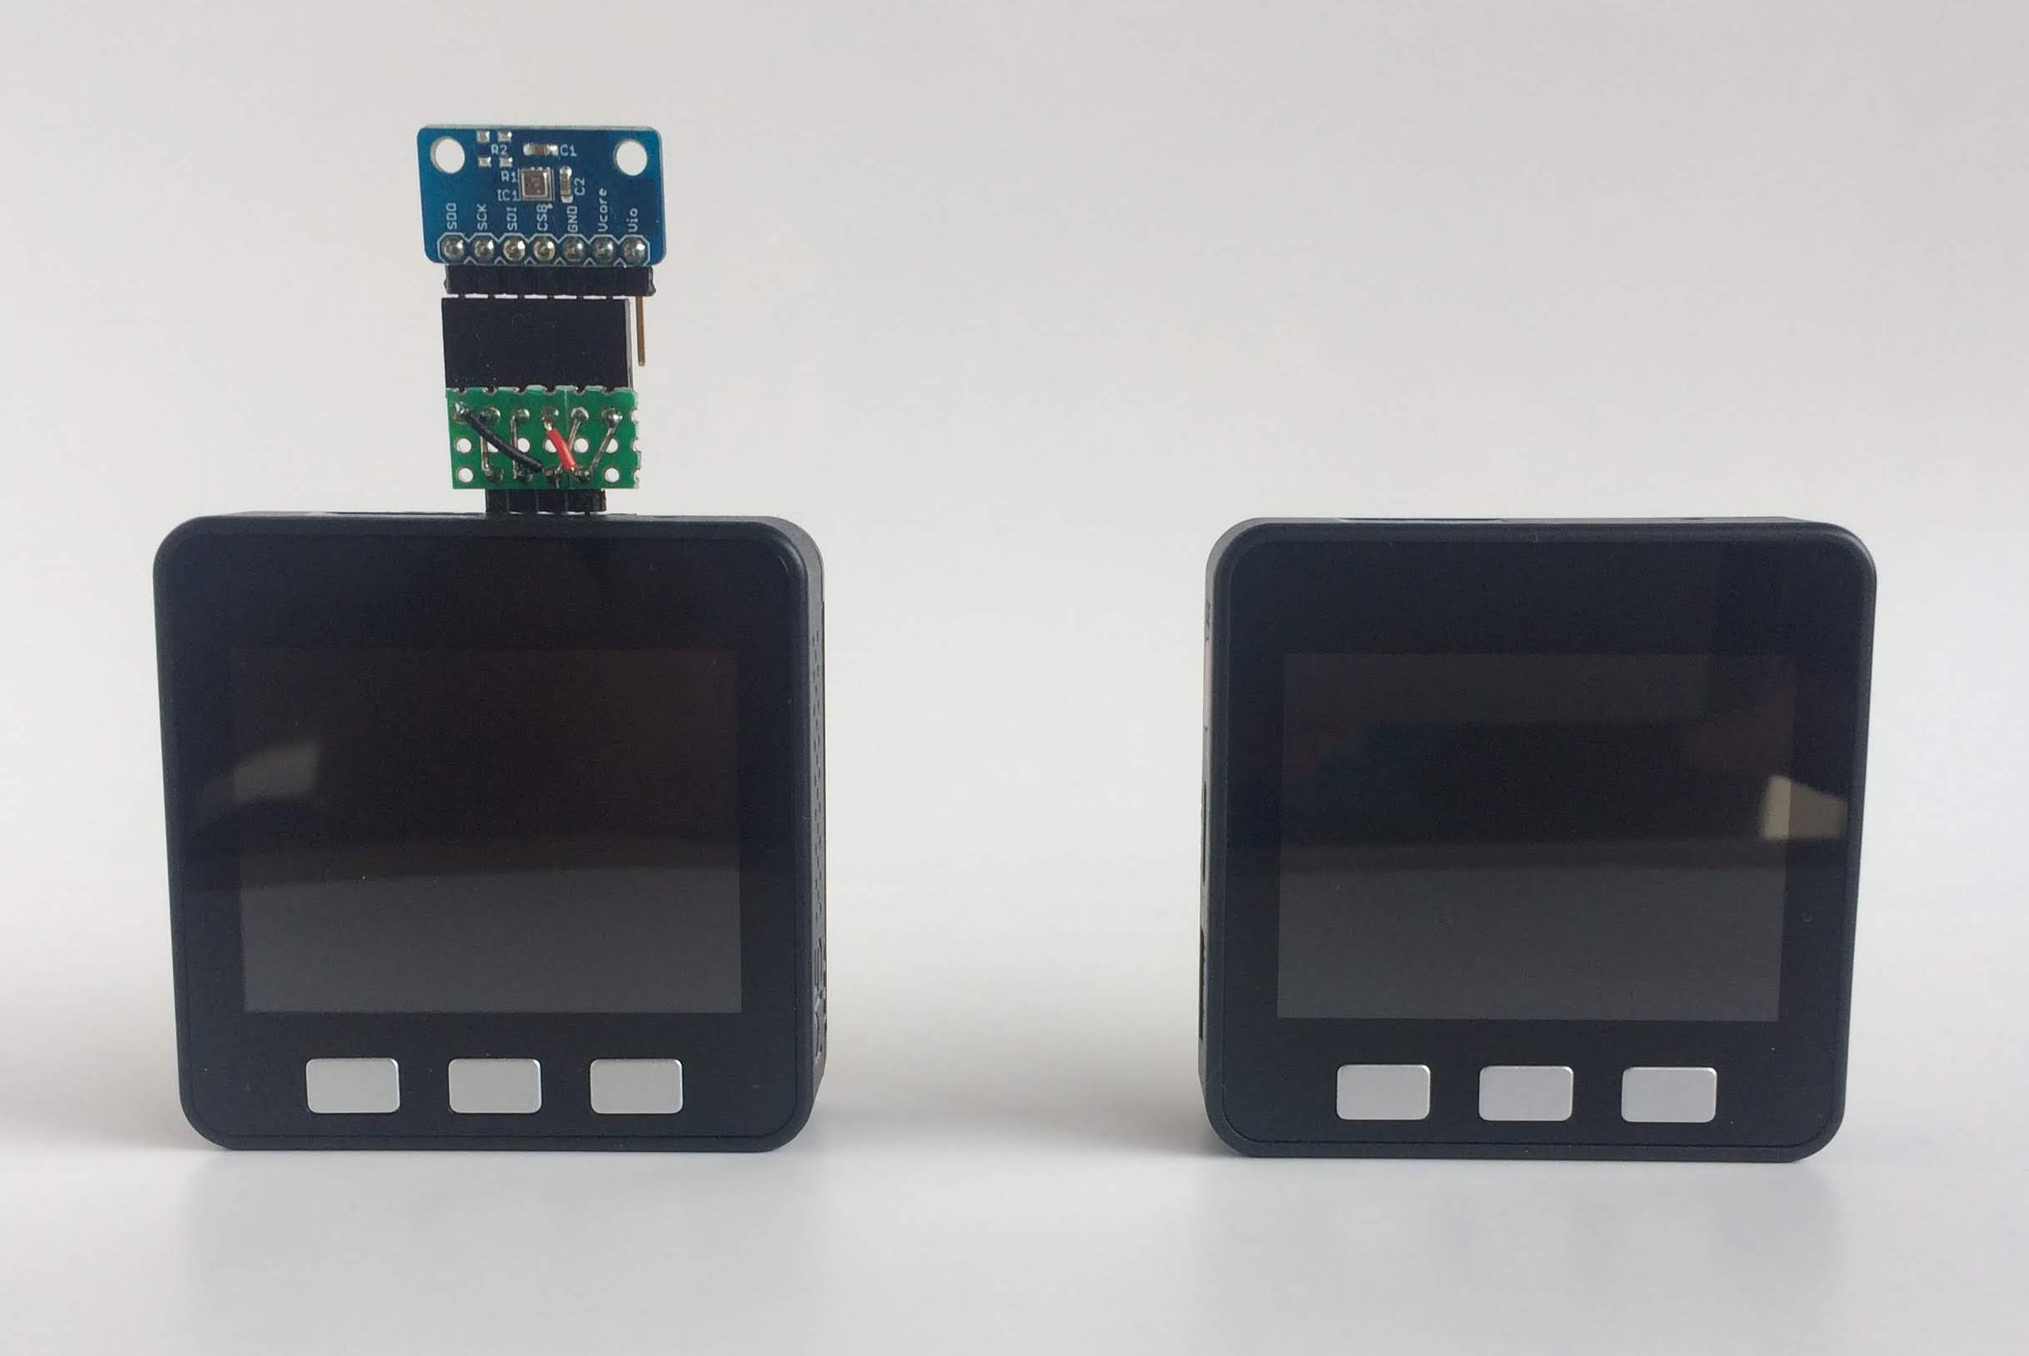
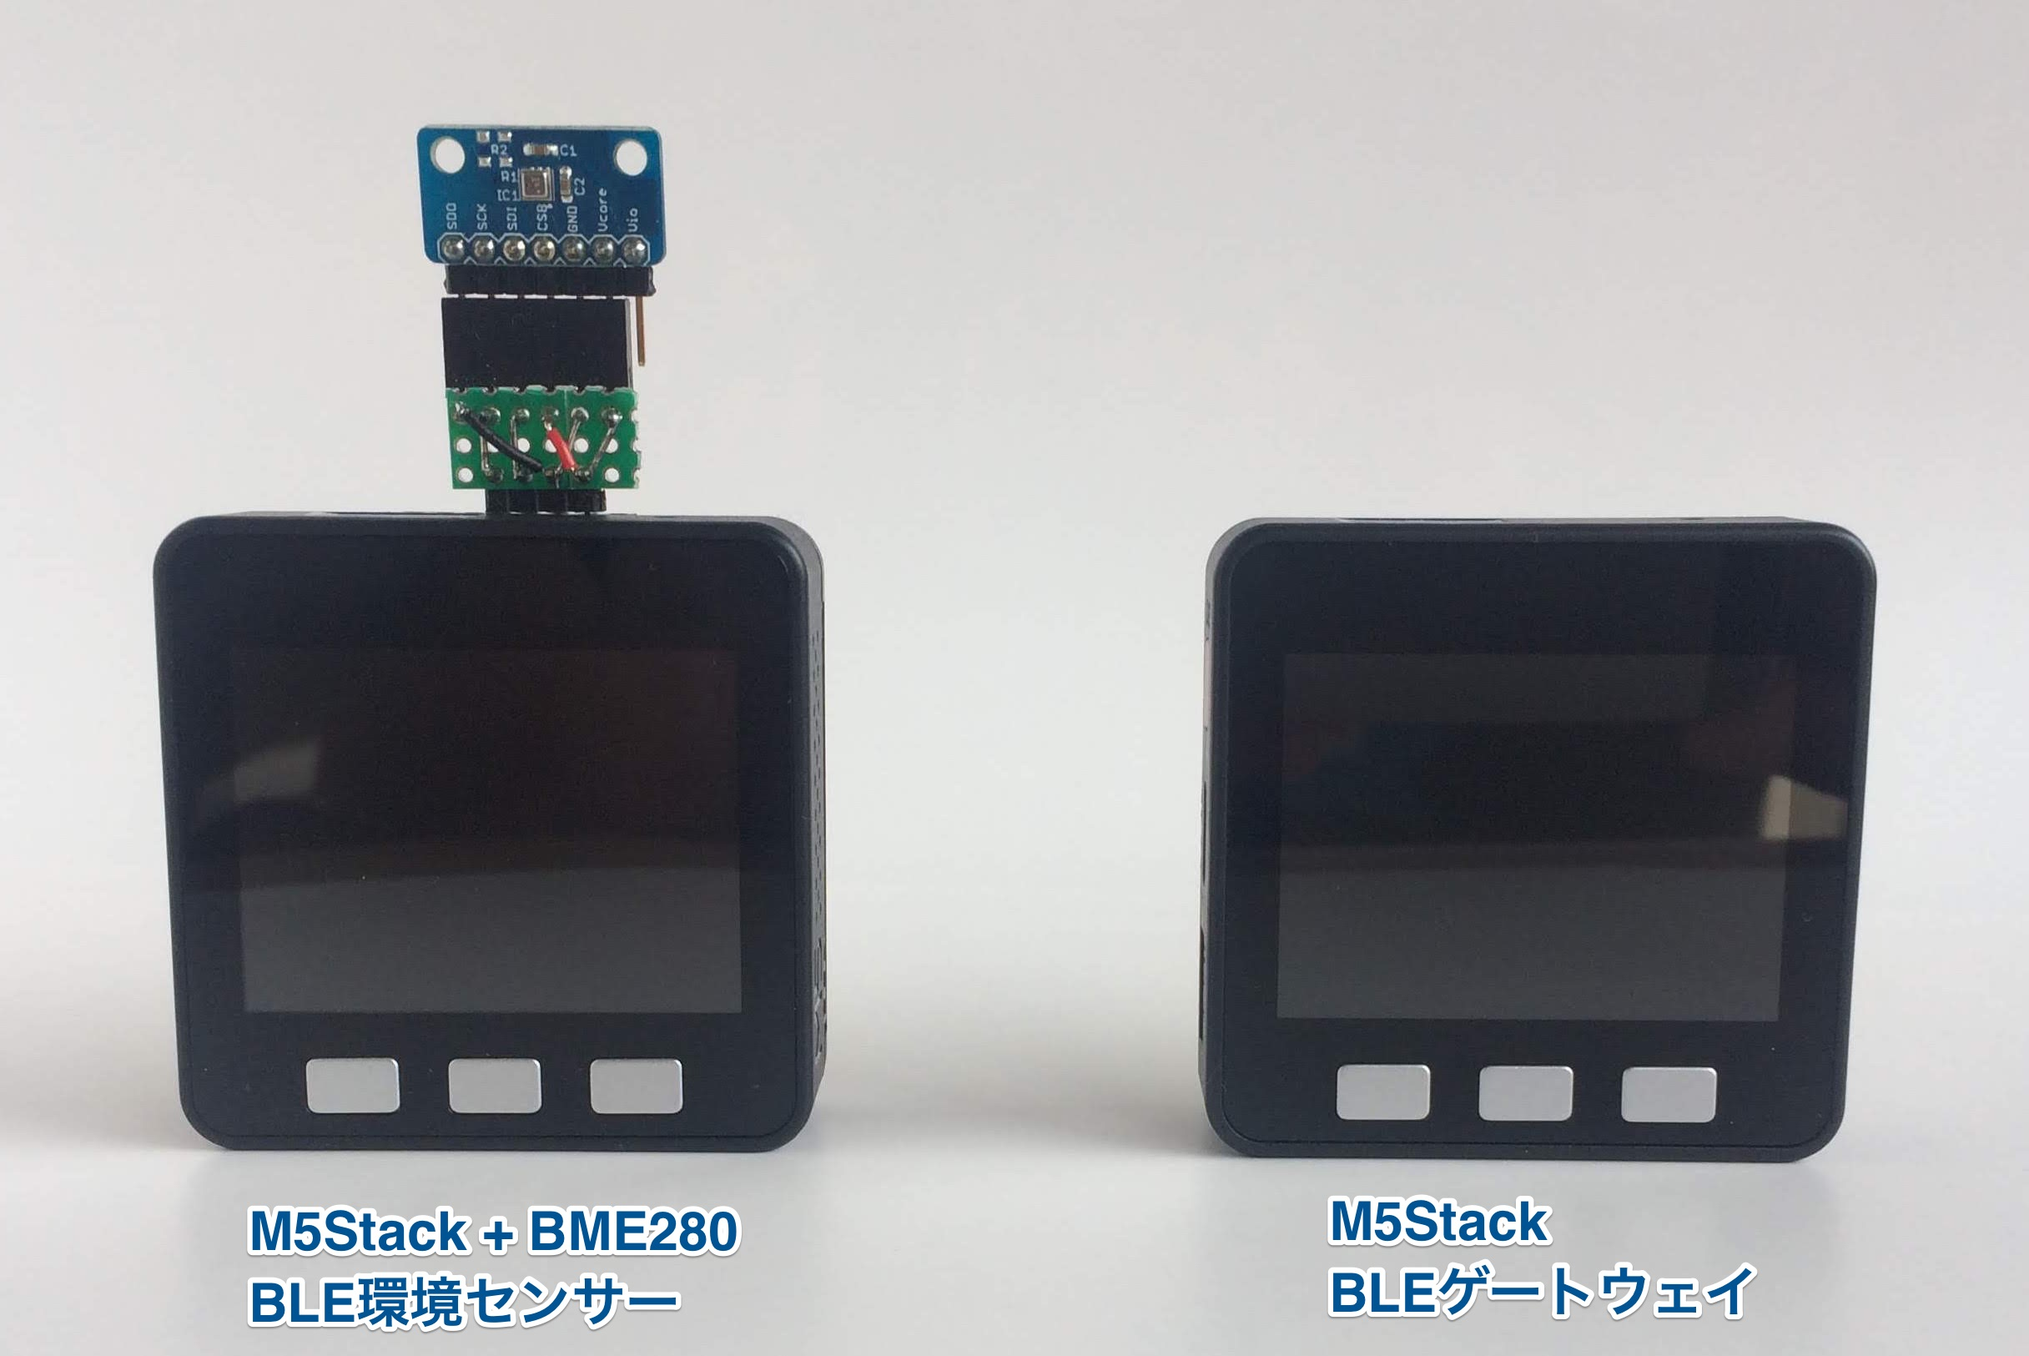
October contents

Changed region(s): [[0.0938, 0.8923, 0.375, 0.9846], [0.6562, 0.8615, 0.875, 0.9846]]

diff --git a/letsiot/blegw_rpi/index.html b/letsiot/blegw_rpi/index.html
@@ -90,9 +90,14 @@
             </div>
 
             <div class="col-sm-9 col-lg-8">
+                <p>Bluetooth Low Energy (BLE) は消費電力の低い通信方式ですが、直接インターネットにはデータを送れません。
+                    BLEで送信したセンサデータをクラウドに送るためには、
+                    BLEで送信されたデータを受信してTCP/IPでクラウドに送るBLEゲートウェイが必要です。</p>
+
                 <p>「<a href="http://pages.switch-science.com/letsiot/bleperiph/index.html">M5StackでBLE環境センサ端末を作る</a>」ではBluetooth Low Energy (BLE) でデータを発信するセンサ端末を作りました。
-                    今回はこの端末からデータを受けて、クラウドにデータを送るゲートウェイを作ります。</p>
-                <p>ESP32を使ったゲートウェイは「<a href="http://pages.switch-science.com/letsiot/blegw_esp32/index.html">BLE環境センサ・ゲートウェイ(ESP32編)</a>」をご覧ください。</p>
+                    今回はこの端末からデータを受けて、クラウドにデータを送るBLEゲートウェイを作ります。</p>
+
+                <p><img src="./images/photo1.jpg" width="80%" class="img-responsive center-block"></p>
 
                 <h2 id="structure">全体の構成</h2>
 
@@ -102,7 +107,8 @@
                     M5Stackに搭載されているものと同じマイコンESP32を搭載するESPr Developer 32でも動作します。
                     センサ端末の開発は「<a href="http://pages.switch-science.com/letsiot/bleperiph/index.html">M5StackでBLE環境センサ端末を作る</a>」をご覧ください。</p>
 
-                <p>ゲートウェイはBLE通信ができて、インターネットにも接続できるものが必要です。今回はRaspberry Piを使います。</p>
+                <p>BLEゲートウェイはBLE通信ができて、インターネットにも接続できるものが必要です。今回はRaspberry Piを使います。</p>
+                <p>ESP32を使ったBLEゲートウェイは「<a href="http://pages.switch-science.com/letsiot/blegw_esp32/index.html">BLE環境センサ・ゲートウェイ(ESP32編)</a>」をご覧ください。</p>
 
                 <h2 id="blemode">BLEデバイスの動作</h2>
 
@@ -111,7 +117,7 @@
                 <p><img src="./images/blemode.jpg" width="80%" class="img-responsive center-block"></p>
 
                 <p>コネクトモードでは、センサ端末などのペリフェラルが自らの存在を発信(アドバタイズ)します。
-                    セントラルと呼ばれるゲートウェイはアドバタイジングパケットをスキャンし、自分が必要とするペリフェラルを見つけ、
+                    セントラルと呼ばれるBLEゲートウェイはアドバタイジングパケットをスキャンし、自分が必要とするペリフェラルを見つけ、
                     ペリフェラルに接続(コネクト)してデータの送受信をおこないます。</p>
 
                 <p>ブロードキャストモードでは、ペリフェラルがセンサデータなどをアドバタイジングパケットに載せて送り、セントラルがそれを受信します。</p>
@@ -123,14 +129,27 @@
                     しかもブロードキャストモードは、ペリフェラルがデータを送りたいときだけアドバタイズし、あとはDeep Sleepすることができるので、
                     ペリフェラル側の電力消費を低く抑えられます。</p>
 
-                <p>センサ端末はブロードキャストモードで動作するものを開発したので、ゲートウェイもブロードキャストモードのものを作ります。</p>
+                <p>センサ端末はブロードキャストモードで動作するものを開発したので、BLEゲートウェイもブロードキャストモードのものを作ります。</p>
 
                 <h2 id="hardware">ハードウェア、OS、Python</h2>
 
-                <p>ゲートウェイのハードウェアは「<a href="https://www.switch-science.com/catalog/3646/">Raspberry Pi Zero WH</a>」を使いました。
+                <p>BLEゲートウェイのハードウェアは「<a href="https://www.switch-science.com/catalog/3646/">Raspberry Pi Zero WH</a>」を使いました。
                     65mm x 30mm と非常に小さいサイズですが、Wi-FiとBLE通信機能があり、RAMも512MBあります。BLEゲートウェイを動かすには十分な性能です。</p>
 
-                <p><img src="./images/photo1.jpg" width="80%" class="img-responsive center-block"></p>
+                <p>今回使用した部品をまとめました。</p>
+                <div>
+                    <table class="table table-bordered" style="font-size:0.9em; width: 70%;">
+                        <thead>
+                            <tr><th>部品</th><th>個数</th></tr>
+                        </thead>
+                        <tbody>
+                            <tr><td><a href="https://www.switch-science.com/catalog/3646/">Raspberry Pi Zero WH</a></td><td>1個</td></tr>
+                            <tr><td><a href="https://www.switch-science.com/catalog/3240/">Adafruit Raspberry Pi Zero用ケース</a></td><td>1個</td></tr>
+                            <tr><td><a href="https://www.switch-science.com/catalog/2109/">USB ACアダプター 5V/2.0A</a></td><td>1個</td></tr>
+                            <tr><td><a href="https://www.switch-science.com/catalog/1035/">USB2.0ケーブル(A-microBタイプ)50cm</a></td><td>1個</td></tr>
+                        </tbody>
+                    </table>
+                </div>
 
                 <p>OSは「Raspbian GNU/Linux 9.4 (stretch)」を使いました。
                     OSのセットアップは「<a href="https://qiita.com/hishi/items/8bdfd9d72fa8fe2e7573" target="_blank">Raspberry Pi Zero(W)のセットアップ</a>」などをご覧ください。
@@ -138,19 +157,21 @@
                 <p>Pythonはpyenvを導入し、Pythonは3.6.5をインストールしました。
                     pyenvとPythonのインストールは「<a href="https://qiita.com/h-sakano/items/cb8df027b81acd78bd77" target="_blank">RaspberryPiにpyenvを導入</a>」などをご覧ください。
 
-                <p>Raspberry Pi Zero WHへのPythonのインストールは非常に時間がかかります。ネットワーク環境にもよりますが、私の環境では1時間6分かかりました。
+                <p>Raspberry Pi Zero WHへのPythonのインストールは非常に時間がかかります。ネットワーク環境にもよりますが、著者の環境では1時間6分かかりました。
                     途中、不安になりますが、気長にお待ちください。</p>
 
                 <h2 id="library">BLEライブラリ</h2>
 
                 <p>PythonのBLEライブラリにはいくつかのものがあります。
                     「<a href="http://masato-ka.hatenablog.com/entry/2017/09/10/153555" target="_blank">PythonからBLEを制御するライブラリの調査</a>」に比較レポートがあります。
-                    Python3系で使えて<a href="http://ianharvey.github.io/bluepy-doc/" target="_blank">ドキュメント</a>がしっかりしている
+                    今回はこの中でPython3系で使えて<a href="http://ianharvey.github.io/bluepy-doc/" target="_blank">ドキュメント</a>がしっかりしている
                     「<a href="https://github.com/IanHarvey/bluepy" target="_blank">bluepy</a>」を使いました。
+                    ライブラリを選択する上で、ドキュメントの充実は重要です。
+                    APIや関数インタフェースの仕様、使い方、事例などが豊富にあるとプログラミングもとても楽になります。</p>
 
                 <h3>bluepyとAmbientライブラリのインストール</h3>
 
-                <p>Raspberry Piへのbluepyのインストールは次のようにおこないます。</p>
+                <p>Raspberry Piへのbluepyのインストールは次のようにおこないます。「pi$」と書いてある部分はRaspberry Piでのコマンド実行です。</p>
 
 <p><pre>
 pi$ sudo apt-get install libglib2.0-dev
@@ -180,7 +201,7 @@ pi$ pip install git+https://github.com/AmbientDataInc/ambient-python-lib.git
 
                 <p><img src="./images/ADVdata.jpg" width="80%" class="img-responsive center-block"></p>
 
-                <p>ブロードキャストモードのゲートウェイプログラムは比較的単純です。センサ端末が送るアドバタイジングデータをスキャンして見つけ、
+                <p>ブロードキャストモードのBLEゲートウェイプログラムは比較的単純です。センサ端末が送るアドバタイジングデータをスキャンして見つけ、
                     アドバタイジングデータからセンサ値を取り出し、Ambientに送ります。</p>
 
                 <p>bluepyでは、Scannerクラスのインスタンスを作り、scan()メソッドを呼ぶとスキャンが始まります。
@@ -193,7 +214,7 @@ pi$ pip install git+https://github.com/AmbientDataInc/ambient-python-lib.git
                 <p>handleDiscovery()の引数のscanEntryはscanEntryクラスです。getScanData()メソッドで(Ad Type、その説明、Ad Typeに対する値)のタプルが得られます。</p>
 
                 <p>スキャンすると、BLE電波が届く範囲にあって、その時アドバタイズしている複数のBLE端末からのアドバタイジングデータが得られます。
-                    その中で説明が’Manufacturer’で値の先頭のカンパニーIDが0xffffのデータがBLE環境センサのアドバタイジングデータです。
+                    その中で説明(desc)が’Manufacturer’で値の先頭(value[0:4])のカンパニーIDが0xffffのデータがBLE環境センサのアドバタイジングデータです。
                     そのデータを見つけて、データから温度、湿度、気圧を取り出し、Ambientに送ります。</p>
 
                 <script src="https://gist.github.com/TakehikoShimojima/c7b0c1fcf422340a8e60562571584c86.js"></script>
@@ -210,13 +231,14 @@ pi$ pip install git+https://github.com/AmbientDataInc/ambient-python-lib.git
 pi$ sudo python env2ambientBS.py
 </pre></p>
 
-                <p>Raspberry Piからログアウトしても、ゲートウェイプログラムが終了しないようにするには、次のように起動します。</p>
+                <p>このままだとRaspberry Piからログアウトすると、プログラムが終了してしまいます。
+                    Raspberry Piからログアウトしても、BLEゲートウェイプログラムが終了しないようにするには、次のように起動します。</p>
 
 <p><pre>
 pi$ sudo nohup python env2ambientBS.py < /dev/null &
 </pre></p>
 
-                <p>センサ端末とゲートウェイを動かし、データを送信したAmbientのチャネルページを見ると、送信した温度、湿度、気圧データが確認できます。</p>
+                <p>センサ端末とBLEゲートウェイを動かし、データを送信したAmbientのチャネルページを見ると、送信した温度、湿度、気圧データが確認できます。</p>
 
                 <p style="margin-top: 40px;">この記事は<a href="https://ambidata.io/" target="_blank">アンビエントデーター</a>の下島が担当しました。</p>
 

diff --git a/letsiot/blegw_esp32/index.html b/letsiot/blegw_esp32/index.html
@@ -95,7 +95,7 @@
                     この機能を使い、BLEセンサ端末からデータを受けて、クラウドに送信するBLEゲートウェイを作ります。</p>
 
                 <p>BLE環境センサ端末は「<a href="http://pages.switch-science.com/letsiot/bleperiph/index.html">M5StackでBLE環境センサ端末を作る</a>」を、
-                    Raspberry Piを使ったゲートウェイは「<a href="http://pages.switch-science.com/letsiot/blegw_rpi/index.html">BLE環境センサ・ゲートウェイ(Raspberry Pi編)</a>」をご覧ください。</p>
+                    Raspberry Piを使ったBLEゲートウェイは「<a href="http://pages.switch-science.com/letsiot/blegw_rpi/index.html">BLE環境センサ・ゲートウェイ(Raspberry Pi編)</a>」をご覧ください。</p>
 
                 <p><img src="./images/photo2.jpg" width="80%" class="img-responsive center-block"></p>
 
@@ -104,9 +104,15 @@
                 <p><img src="./images/structure_M5gw.jpg" width="80%" class="img-responsive center-block"></p>
 
                 <p>センサ端末とBLEゲートウェイの両方をM5Stackで作ります。
-                    ゲートウェイはセンサ端末からBLEでデータを受け、Wi-Fi経由でクラウド(Ambient)に送信します。</p>
+                    BLEゲートウェイはセンサ端末からBLEでデータを受け、Wi-Fi経由でクラウド(Ambient)に送信します。</p>
 
                 <h2 id="programsize">プログラムサイズの問題</h2>
+
+                <p>ESP32はArduino、MicroPython、ESP-IDFでプログラミングできます。
+                    MicroPythonはBluetooth Low Energyがサポートされていないので、Arduinoでプログラミングします。
+                    ESP32 ArduinoのBLEライブラリは非常にサイズが大きいことで知られています。実際にビルドしてサイズを調べてみます。</p>
+
+                    <p>ほぼ何もしないプログラムをビルドすると、次のようなメッセージが表示されます。</p>
 
 <p><pre>
  #include <M5Stack.h>
@@ -118,15 +124,14 @@
  }
 </pre></p>
 
-                <p>ほぼ何もしないプログラムをビルドすると、次のようなメッセージが表示されます。</p>
-
 <p><pre>
 最大1310720バイトのフラッシュメモリのうち、スケッチが264500バイト（20%）を使っています。
 最大327680バイトのRAMのうち、グローバル変数が15184バイト（4%）を使っていて、ローカル変数で312496バイト使うことができます。
 </pre></p>
 
                 <p>Arduino Coreは1.0.0-rc4を使っています。258kバイトがArduino Coreのサイズのようです。
-                    これにBLEDevice::init()だけを追加してビルドしてみます。</p>
+                    これにBLEDevice::init()だけを追加してビルドしてみます。
+                    BLEモジュールはArduino Coreに含まれているので、特にインストール作業は必要ありません。</p>
 
 <p><pre>
  #include <M5Stack.h>
@@ -240,7 +245,7 @@
 
                 <h2 id="program">BLEゲートウェイ・プログラム</h2>
 
-                <p>比較的プログラムが単純なブロードキャストモードのゲートウェイを作ります。</p>
+                <p>比較的プログラムが単純なブロードキャストモードのBLEゲートウェイを作ります。</p>
 
                 <p>ブロードキャストモードのBLEセンサ端末は、センサデータを次のような形式でアドバタイジングデータに載せて発信します。</p>
 
@@ -258,7 +263,9 @@
                 <script src="https://gist.github.com/TakehikoShimojima/d90e7f04a9aaf541b78df1c654106053.js"></script>
 
                 <p>loop()関数では、BLEをスキャンして、スキャンデータから対象の端末を探し、
-                    見つかったら、スキャンデータからセンサデータを取り出し、Ambientに送ります。</p>
+                    見つかったら、スキャンデータからセンサデータを取り出し、Ambientに送ります。
+                    10行目のgetManufacturerData()関数でマニュファクチャラデータを取得します。
+                    その先頭のカンパニーIDが0xffffで、シーケンス番号が更新されていたら、マニュファクチャラデータから温度、湿度、気圧データを取り出し、Ambientに送信します。</p>
 
                 <script src="https://gist.github.com/TakehikoShimojima/f7ad8f3d1af15896557103c037d7f848.js"></script>
 
